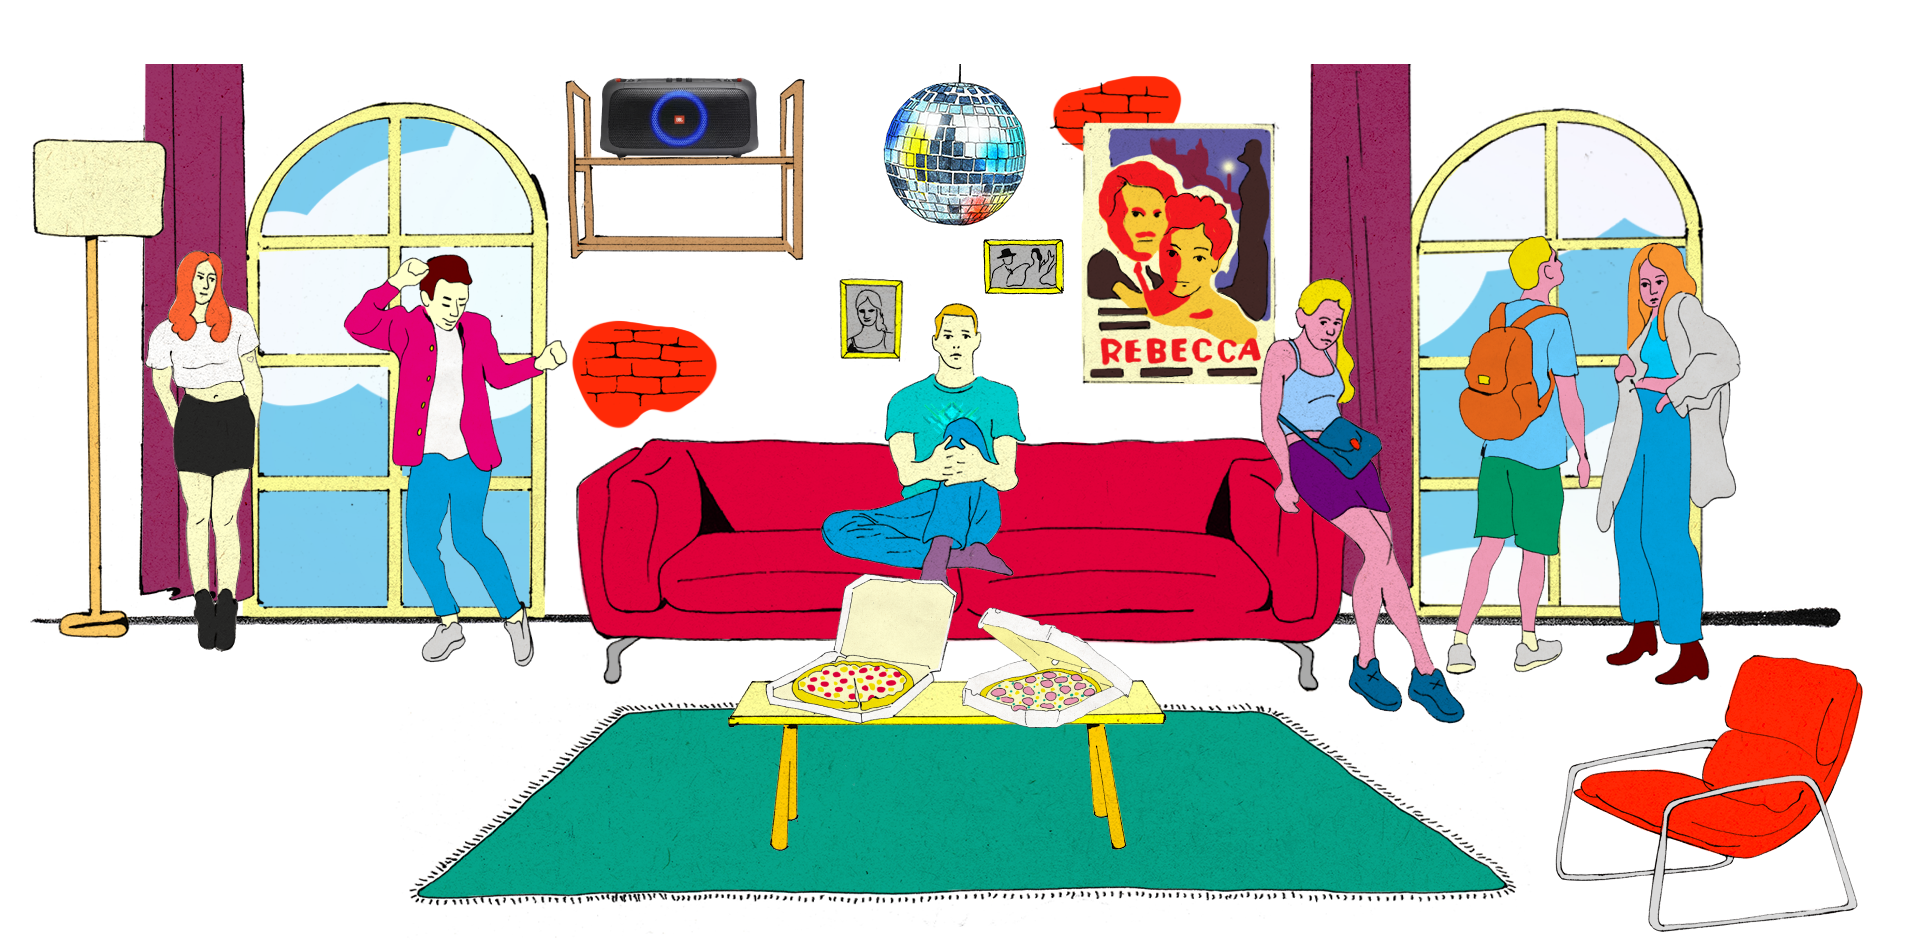
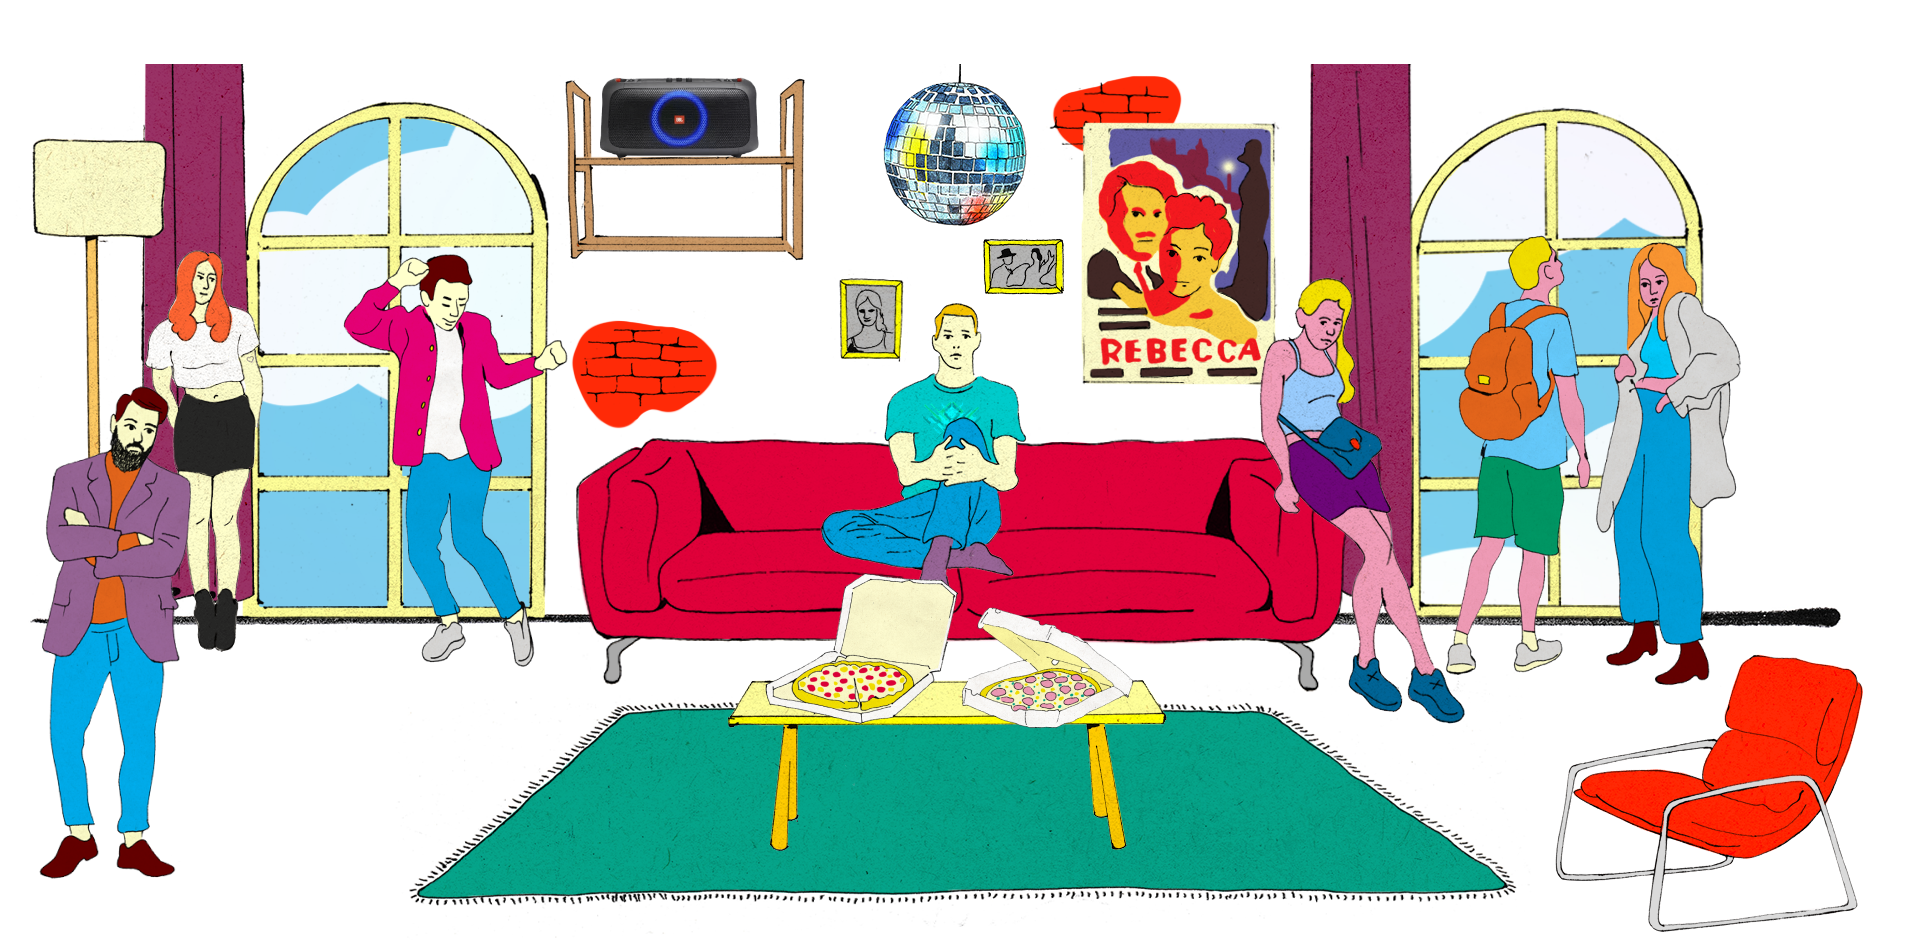
Added images for level 1

Changed region(s): [[0.0, 0.3973, 0.125, 0.9473]]

diff --git a/src/components/Overley/overleyData.js b/src/components/Overley/overleyData.js
@@ -1,18 +1,18 @@
 const overleyData = [
     {
-        idBg: 9,
+        idBg: 8,
         content: '<span>Атмосфера на караоке-вечеринке зависит и от того, насколько хорошо ты споешь — ведь никто не захочет слушать, как ты пытаешься вытянуть Adele без голоса и слуха. Что ж, приготовься: петь ничего не придется. Зато надо вспомнить строчки из любимых и известных песен! В общем, постарайся на 100 баллов и сделай так, чтобы твои гости веселились и танцевали несколько часов напролет!</span>',
         typeBtn: 'arrow',
         style: {height: '56em', width: '93.8em'}
     },
     {
-        idBg: 11,
+        idBg: 10,
         content: '<span>Первые гости уже прибыли — пришло время спеть что-нибудь на разогрев. Ты, как хозяин вечеринки, должен взять дело — то есть микрофон — в свои руки! Предлагаем начать с трека «Я волна» DJ Smash — хита 2008 года.</span>',
         typeBtn: 'next',
         style: {height: '42.6em', width: '91.8em'}
     },
     {
-        idBg: 12,
+        idBg: 11,
         content: '<span><strong>DJ Smash — «Волна»</strong><br>Я волна, новая волна<br>Подо мной будет вся страна<br>Подожди, скоро навсегда</span>',
         typeBtn: 'variants',
         style: {height: '67.6em', width: '58.1em'},

diff --git a/src/components/Overley/Overley.js b/src/components/Overley/Overley.js
@@ -8,12 +8,14 @@ import './Overley.scss';
 
 export default function Overley() {
 
-    const {IMAGES, setOverley} = useContext(Context);
+    const {IMAGES, setOverley, setYesNo} = useContext(Context);
 
     const [countOverley, setCoutnOverlaey] = useState(0);
     const [animation, setAnimation] = useState(0);
     const [overAnimation, setOverAnimation] = useState(false);
     const [check, setCheck] = useState(false);
+
+    const {style, idBg, content, typeBtn, variants} = data[countOverley];
 
     let refElem = useRef(null);
     let refWin = useRef(null);
@@ -58,6 +60,7 @@ export default function Overley() {
 
             let timout = setTimeout(() => {
                 setOverley(false);
+                setYesNo(variants.data[check].ans);
             }, 1600);
 
             return () => {
@@ -81,8 +84,6 @@ export default function Overley() {
         }
     }
 
-    const {style, idBg, content, typeBtn, variants} = data[countOverley];
-
     return (
         <div className="overlay" ref={el => (refElem = el)}>
             <div className="overlay-message" ref={el => (refWin = el)} style={style}>
@@ -93,7 +94,7 @@ export default function Overley() {
 
                         {typeBtn === 'arrow' && (
                             <div className="overlay-content-btn-arrow" onClick={nextOverlay}>
-                                <img src={IMAGES[10].url} alt={IMAGES[10].name}/>
+                                <img src={IMAGES[9].url} alt={IMAGES[9].name}/>
                             </div>
                         )}
 

diff --git a/src/dataImg.js b/src/dataImg.js
@@ -6,7 +6,8 @@ import startTitle from './img/startTitle.png';
 import discoBall from './img/discoBall.png';
 import mobileStartTitle from './img/mobileStartTitle.png';
 import gameLocation0 from './img/gameLocation0.png';
-import elem1 from './img/elem1.png';
+import gameLocation01 from './img/gameLocation01.png';
+import gameLocation02 from './img/gameLocation02.png';
 import mess1 from './img/mess1.png';
 import mess2 from './img/mess2.png';
 import mess3 from './img/mess3.png';
@@ -55,28 +56,33 @@ const dataImages = [
     },
     {
       id: 8,
-      name: 'elem1',
-      url: elem1
-    },
-    {
-      id: 9,
       name: 'mess1',
       url: mess1
     },
     {
-      id: 10,
+      id: 9,
       name: 'btnArrow',
       url: btnArrow
     },
     {
-      id: 11,
+      id: 10,
       name: 'mess2',
       url: mess2
     },
     {
-      id: 12,
+      id: 11,
       name: 'mess3',
       url: mess3
+    },
+    {
+      id: 12,
+      name: 'gameLocation01',
+      url: gameLocation01
+    },
+    {
+      id: 13,
+      name: 'gameLocation02',
+      url: gameLocation02
     },
 ];
 

diff --git a/src/context.js b/src/context.js
@@ -20,6 +20,8 @@ export default function ContextProvider({ children }) {
 
     const [em, setEm] = useState(getEm());
     const [screen, setScreen] = useState('start');//start / game / final
+    const [level, setLevel] = useState(0);
+    const [yesno, setYesNo] = useState(null);
     const [isMobale, setIsMobale] = useState(getIsMobile());
     const [imgsLoaded, setImgsLoaded] = useState(false);
     const [countLoaded, setCountLoaded] = useState(0);
@@ -84,7 +86,7 @@ export default function ContextProvider({ children }) {
     },[overley]);
 
     return (
-        <Context.Provider value={{ IMAGES, em, isMobale, imgsLoaded, countLoaded, screen, startGame, overley, setOverley }}>
+        <Context.Provider value={{ IMAGES, em, isMobale, imgsLoaded, countLoaded, screen, startGame, overley, setOverley, level, yesno, setYesNo }}>
         {children}
         </Context.Provider>
     );

diff --git a/src/components/Game/Game.js b/src/components/Game/Game.js
@@ -1,16 +1,24 @@
 import React, {useContext} from 'react';
 import {Context} from '../../context';
 
+import levels from './levelsData';
+
 import './Game.scss';
 
 export default function Game() {
 
-    const {IMAGES} = useContext(Context);
+    const {IMAGES, level, yesno} = useContext(Context);
+
+    const {bgImg, corect, nocorect} = levels[level];
+
+    let id = bgImg;
+
+    if(yesno === true) id = corect;
+    if(yesno === false) id = nocorect;
 
     return (
         <div className="app-game">
-            <img className="app-game-bgimg top" src={IMAGES[7].url} alt={IMAGES[7].name}/>
-            <img className="app-game-elem" src={IMAGES[8].url} alt={IMAGES[8].name} style={{width: '16.6em', height: '51.3em'}}/>
+            <img className="app-game-bgimg top" src={IMAGES[id].url} alt={IMAGES[id].name}/>
         </div>
     )
 }

diff --git a/src/components/Game/levelsData.js b/src/components/Game/levelsData.js
@@ -1,0 +1,9 @@
+const levels = [
+    {
+        bgImg: 7,
+        corect: 12,
+        nocorect: 13,
+    }
+];
+
+export default levels;
